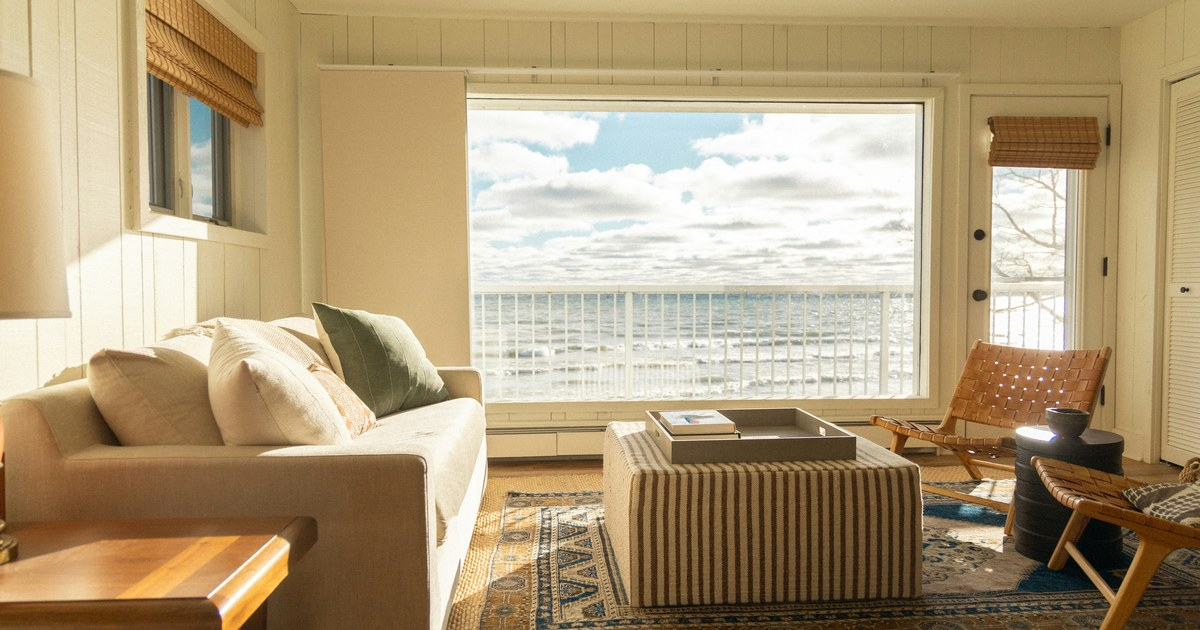
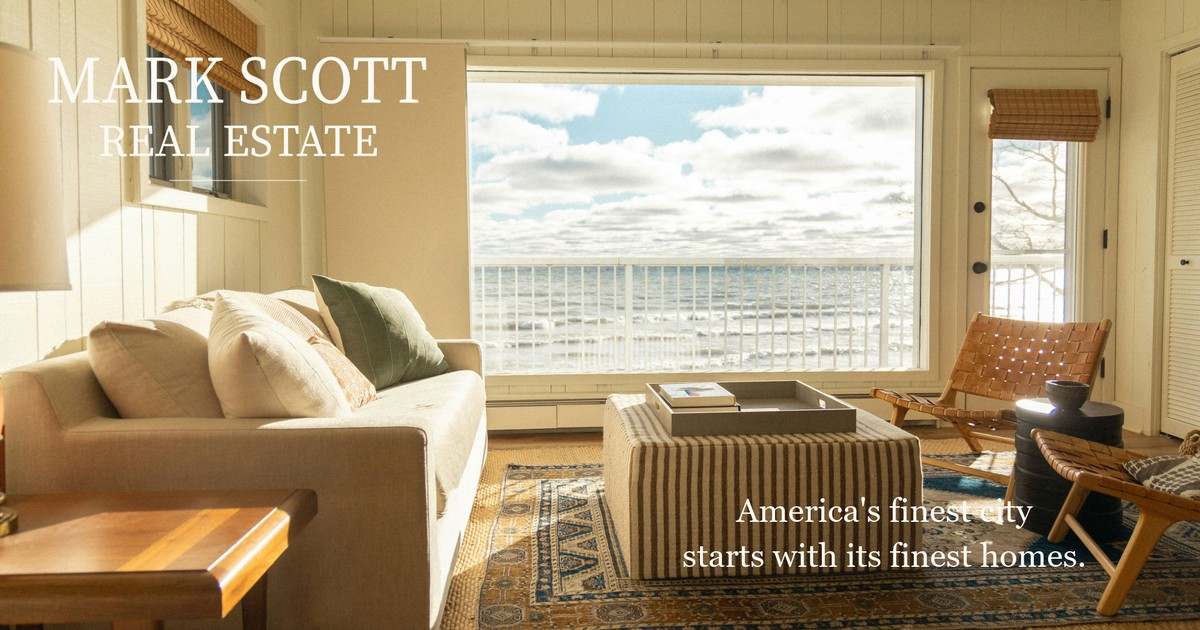
Update link preview image and description
Swaps the OG/Twitter card image for the branded version (Mark Scott
Real Estate wordmark + "America's Finest City starts with its finest
homes." overlaid on the oceanfront living room photo), cropped to
1200x630. Updates the site description to "Homes, market research,
and real estate across San Diego." across metadata, openGraph, and
twitter fields. Title unchanged.

diff --git a/src/app/layout.tsx b/src/app/layout.tsx
@@ -17,12 +17,10 @@ const libreCaslonDisplay = Libre_Caslon_Display({
 export const metadata: Metadata = {
   metadataBase: new URL("https://markscott.co"),
   title: "Mark Scott Real Estate | San Diego",
-  description:
-    "Mark Scott Real Estate — residential, commercial, and investment property expertise across San Diego, California.",
+  description: "Homes, market research, and real estate across San Diego.",
   openGraph: {
     title: "Mark Scott Real Estate | San Diego",
-    description:
-      "Mark Scott Real Estate — residential, commercial, and investment property expertise across San Diego, California.",
+    description: "Homes, market research, and real estate across San Diego.",
     url: "https://markscott.co",
     siteName: "Mark Scott Real Estate",
     locale: "en_US",
@@ -31,8 +29,7 @@ export const metadata: Metadata = {
   twitter: {
     card: "summary_large_image",
     title: "Mark Scott Real Estate | San Diego",
-    description:
-      "Mark Scott Real Estate — residential, commercial, and investment property expertise across San Diego, California.",
+    description: "Homes, market research, and real estate across San Diego.",
   },
 };
 
